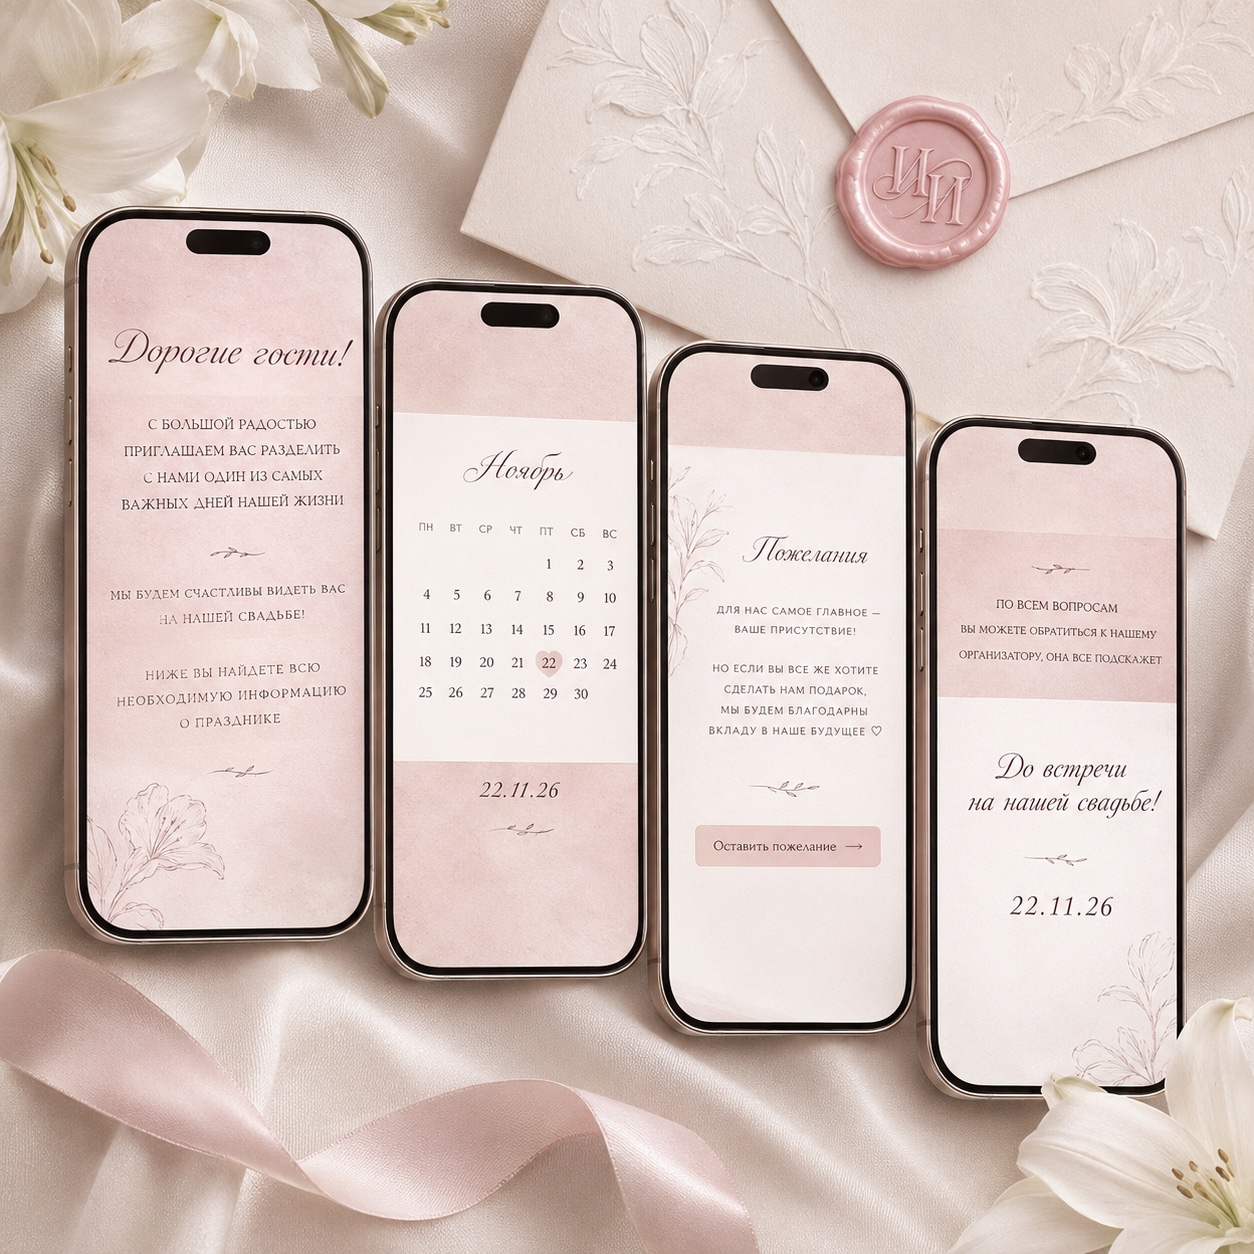
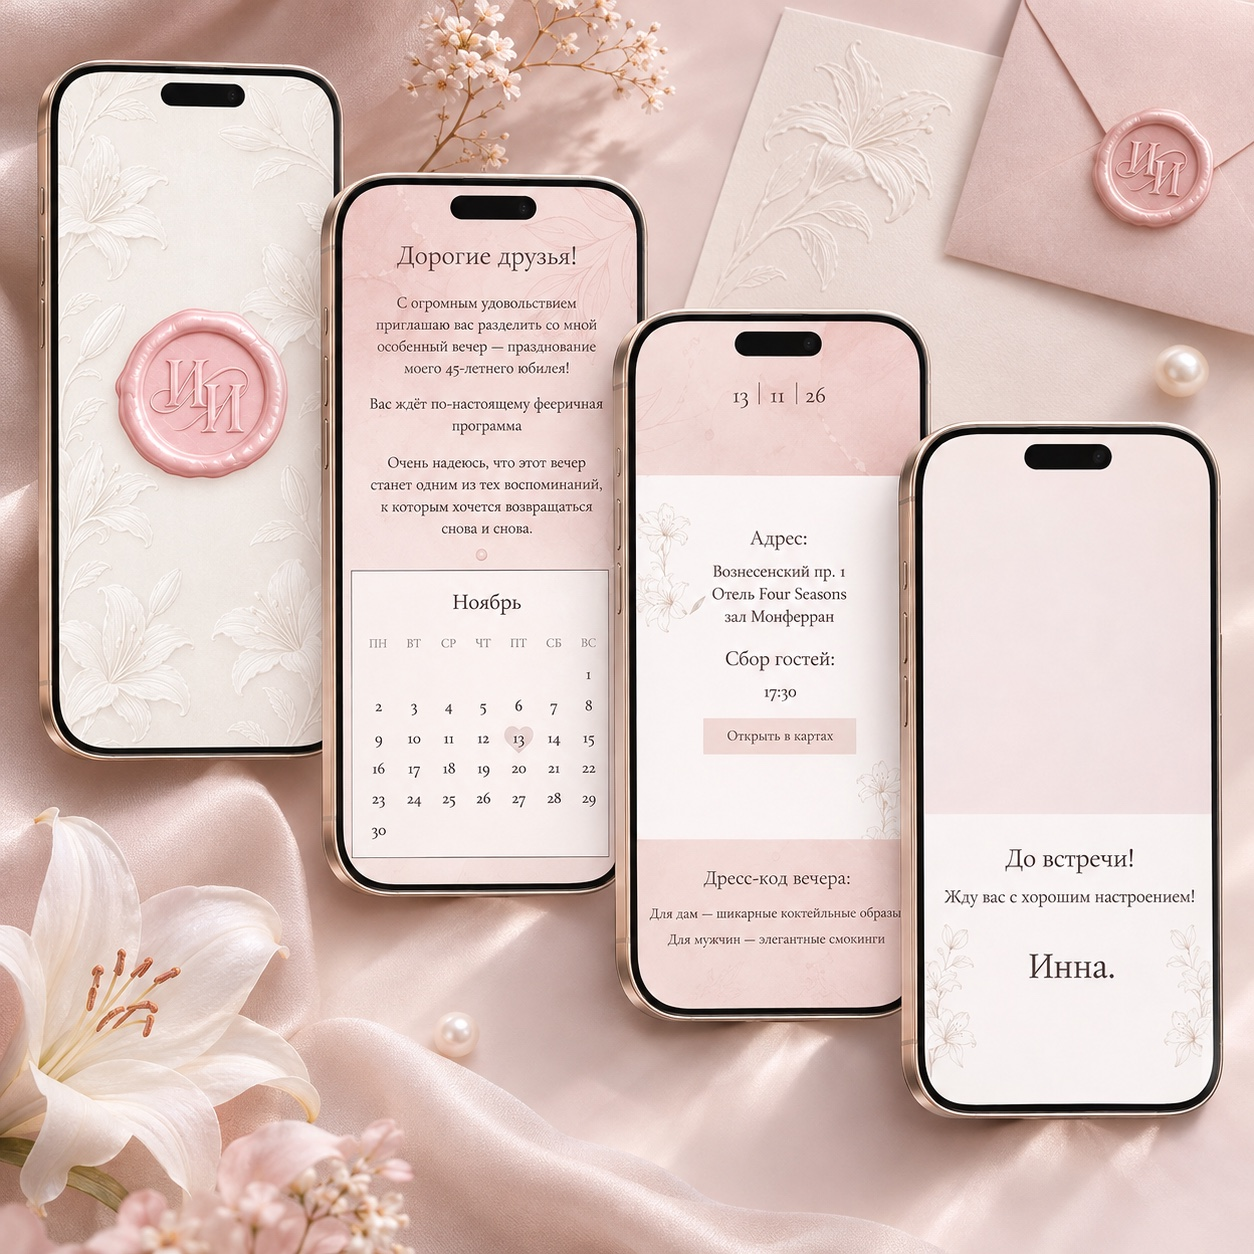
Replace Lightness birthday invitation cover

diff --git a/script.js b/script.js
@@ -776,7 +776,7 @@ const sites = [
     "category": "Взрослый день рождения",
     "format": "День рождения",
     "mood": "Готовый шаблон",
-    "coverImage": "assets/catalog/birthday-lightness-cover.jpg",
+    "coverImage": "assets/catalog/birthday-lightness-cover.jpg?v=20261111-lightness-cover",
     "url": "https://birthday-invitation.github.io/happybirthdayinna/",
     "description": "Сайт-приглашение на день рождения в нежных пудровых тонах.",
     "price": "1500 ₽",

diff --git a/index.html b/index.html
@@ -350,6 +350,6 @@
       <a href="#contacts"><span>04</span>Контакты</a>
     </nav>
 
-    <script src="script.js?v=20261111-delo-third"></script>
+    <script src="script.js?v=20261111-lightness-cover"></script>
   </body>
 </html>
